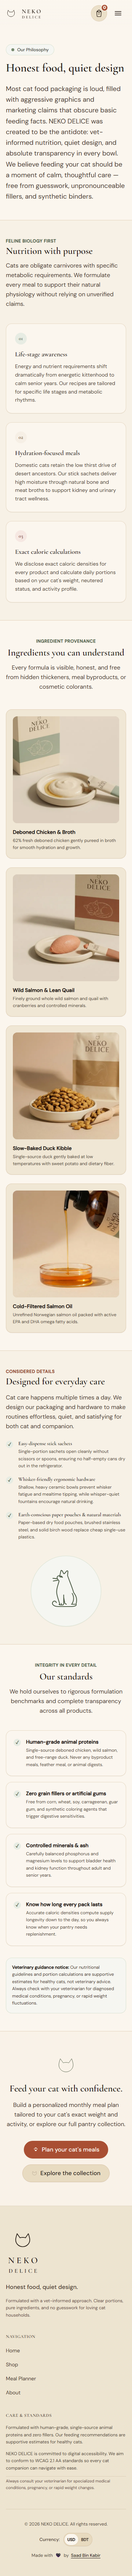
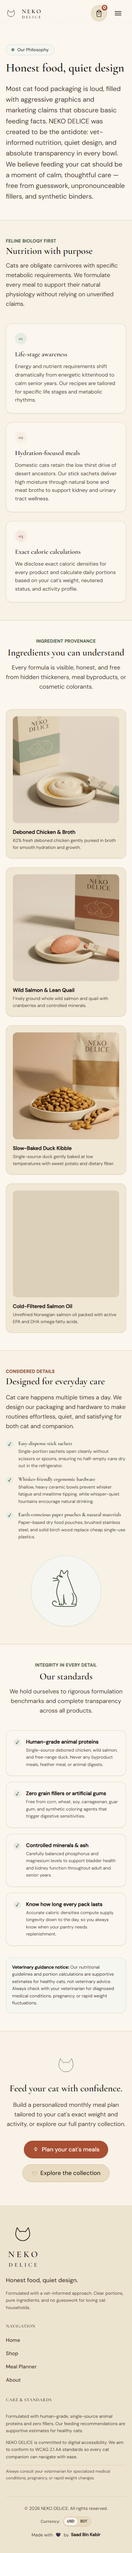
feat: add expanding underline hover effect and refine footer placement and currency toggle size

Changed region(s): [[0.0306, 0.0312, 0.9472, 0.7793], [0.0306, 0.8105, 0.9167, 0.9975], [0.8556, 0.1559, 0.8861, 0.187]]

diff --git a/src/components/layout/Footer.tsx b/src/components/layout/Footer.tsx
@@ -13,11 +13,11 @@ export function Footer() {
   ]
 
   return (
-    <footer className="bg-oat-100/60 border-t border-oat-200/80 mt-auto pt-16 pb-12 text-espresso-800">
+    <footer className="bg-oat-100/60 border-t border-oat-200/80 mt-auto pt-12 sm:pt-16 pb-10 sm:pb-12 text-espresso-800">
       <div className="max-w-[1280px] mx-auto px-4 sm:px-6 lg:px-8">
-        <div className="grid grid-cols-1 md:grid-cols-12 gap-10 lg:gap-12 pb-12 border-b border-oat-300/60">
+        <div className="grid grid-cols-1 md:grid-cols-12 gap-8 md:gap-8 lg:gap-12 pb-10 sm:pb-12 border-b border-oat-300/60">
           {/* Brand Identity & Line */}
-          <div className="md:col-span-5 flex flex-col items-start gap-4">
+          <div className="md:col-span-5 lg:col-span-5 flex flex-col items-start gap-3.5">
             <Logo variant="stacked" />
             <p className="text-base text-espresso-800 font-medium mt-1">
               Honest food, quiet design.
@@ -28,16 +28,16 @@ export function Footer() {
           </div>
 
           {/* Navigation Links */}
-          <div className="md:col-span-3">
+          <div className="md:col-span-3 lg:col-span-3">
             <h2 className="text-xs font-bold uppercase tracking-wider text-espresso-800 mb-4">
               Navigation
             </h2>
-            <nav aria-label="Footer Navigation" className="flex flex-col gap-2.5">
+            <nav aria-label="Footer Navigation" className="flex flex-col gap-2">
               {footerLinks.map((link) => (
                 <Link
                   key={link.to}
                   to={link.to}
-                  className="text-sm text-espresso-800 hover:text-terracotta-600 transition-colors inline-block py-1"
+                  className="footer-hover-link py-1 text-sm font-medium text-espresso-800 hover:text-terracotta-600 focus:outline-none focus-visible:ring-2 focus-visible:ring-terracotta-500 rounded-xs"
                 >
                   {link.label}
                 </Link>
@@ -46,8 +46,8 @@ export function Footer() {
           </div>
 
           {/* Care & Digital Accessibility Statement */}
-          <div className="md:col-span-4 flex flex-col gap-3 text-xs text-espresso-800 leading-relaxed">
-            <h2 className="text-xs font-bold uppercase tracking-wider text-espresso-800 mb-1">
+          <div className="md:col-span-4 lg:col-span-4 flex flex-col gap-3 text-xs text-espresso-800 leading-relaxed">
+            <h2 className="text-xs font-bold uppercase tracking-wider text-espresso-800 mb-4">
               Care &amp; Standards
             </h2>
             <p className="text-espresso-700">
@@ -56,23 +56,27 @@ export function Footer() {
             <p className="text-espresso-700">
               NEKO DELICE is committed to digital accessibility. We aim to conform to WCAG 2.1 AA standards so every cat companion can navigate with ease.
             </p>
-            <p className="text-[11px] text-espresso-600 pt-1 border-t border-oat-300/60">
+            <p className="text-[11px] text-espresso-600 pt-2 border-t border-oat-300/60">
               Always consult your veterinarian for specialized medical conditions, pregnancy, or rapid weight changes.
             </p>
           </div>
         </div>
 
         {/* Bottom Bar: Copyright, Currency Selector, and Creator Credit */}
-        <div className="pt-8 flex flex-col md:flex-row items-center justify-between gap-4 text-xs text-espresso-700">
-          <p>© {currentYear} NEKO DELICE. All rights reserved.</p>
+        <div className="pt-6 sm:pt-8 grid grid-cols-1 md:grid-cols-3 items-center gap-3.5 sm:gap-4 text-xs text-espresso-700">
+          <p className="text-center md:text-left">
+            © {currentYear} NEKO DELICE. All rights reserved.
+          </p>
 
-          {/* Global Store Currency Selector */}
-          <div className="flex items-center gap-2.5">
-            <span className="text-espresso-800 font-medium">Currency:</span>
-            <CurrencyToggle ariaLabel="Currency selection" size="sm" />
+          {/* Global Store Currency Selector - Compact Micro-Switch */}
+          <div className="flex items-center justify-center gap-2">
+            <span className="text-[11px] text-espresso-700 font-medium tracking-wide">
+              Currency:
+            </span>
+            <CurrencyToggle ariaLabel="Currency selection" size="xs" />
           </div>
 
-          <p className="text-espresso-700 flex items-center gap-1.5">
+          <p className="text-espresso-700 flex items-center justify-center md:justify-end gap-1.5">
             <span>Made with</span>
             <span
               aria-hidden="true"
@@ -86,7 +90,7 @@ export function Footer() {
               href="https://www.instagram.com/saaad.dng/"
               target="_blank"
               rel="noopener noreferrer"
-              className="font-medium text-espresso-950 underline underline-offset-3 decoration-sand-400 hover:text-terracotta-600 hover:decoration-terracotta-600 transition-colors focus:outline-none focus-visible:ring-2 focus-visible:ring-terracotta-500 rounded-xs"
+              className="footer-hover-link font-semibold text-espresso-950 hover:text-terracotta-600 pb-0.5 focus:outline-none focus-visible:ring-2 focus-visible:ring-terracotta-500 rounded-xs"
             >
               Saad Bin Kabir
             </a>

diff --git a/src/components/ui/CurrencyToggle.tsx b/src/components/ui/CurrencyToggle.tsx
@@ -3,7 +3,7 @@ import { useCurrency } from '@/store/currency'
 export interface CurrencyToggleProps {
   ariaLabel?: string
   className?: string
-  size?: 'sm' | 'md'
+  size?: 'xs' | 'sm' | 'md'
 }
 
 export function CurrencyToggle({
@@ -14,23 +14,26 @@ export function CurrencyToggle({
   const currency = useCurrency((s) => s.currency)
   const setCurrency = useCurrency((s) => s.setCurrency)
 
-  const isSmall = size === 'sm'
+  const buttonSizeClasses =
+    size === 'xs'
+      ? 'min-w-[28px] h-[21px] px-2 py-0 text-[10px] leading-none tracking-wide'
+      : size === 'sm'
+        ? 'min-w-[36px] min-h-[30px] px-2 py-0.5 text-[11px]'
+        : 'min-w-[42px] min-h-[34px] px-2.5 py-1 text-xs'
 
   return (
     <fieldset
       aria-label={ariaLabel}
-      className={`inline-flex items-center rounded-full bg-oat-100/90 p-0.5 border border-sand-300/80 m-0 shadow-2xs ${className}`}
+      className={`inline-flex items-center rounded-full bg-oat-100/90 ${
+        size === 'xs' ? 'p-[2px]' : 'p-0.5'
+      } border border-sand-300/80 m-0 shadow-2xs ${className}`}
     >
       <legend className="sr-only">{ariaLabel}</legend>
       <button
         type="button"
         onClick={() => setCurrency('USD')}
         aria-pressed={currency === 'USD'}
-        className={`${
-          isSmall
-            ? 'min-w-[36px] min-h-[30px] px-2 py-0.5 text-[11px]'
-            : 'min-w-[42px] min-h-[34px] px-2.5 py-1 text-xs'
-        } font-semibold rounded-full transition-all duration-150 active:scale-95 cursor-pointer focus:outline-none focus-visible:ring-2 focus-visible:ring-terracotta-600 ${
+        className={`${buttonSizeClasses} font-semibold rounded-full transition-all duration-150 active:scale-95 cursor-pointer focus:outline-none focus-visible:ring-2 focus-visible:ring-terracotta-600 ${
           currency === 'USD'
             ? 'bg-cream-50 text-espresso-950 shadow-xs'
             : 'text-espresso-700 hover:text-espresso-950'
@@ -42,11 +45,7 @@ export function CurrencyToggle({
         type="button"
         onClick={() => setCurrency('BDT')}
         aria-pressed={currency === 'BDT'}
-        className={`${
-          isSmall
-            ? 'min-w-[36px] min-h-[30px] px-2 py-0.5 text-[11px]'
-            : 'min-w-[42px] min-h-[34px] px-2.5 py-1 text-xs'
-        } font-semibold rounded-full transition-all duration-150 active:scale-95 cursor-pointer focus:outline-none focus-visible:ring-2 focus-visible:ring-terracotta-600 ${
+        className={`${buttonSizeClasses} font-semibold rounded-full transition-all duration-150 active:scale-95 cursor-pointer focus:outline-none focus-visible:ring-2 focus-visible:ring-terracotta-600 ${
           currency === 'BDT'
             ? 'bg-cream-50 text-espresso-950 shadow-xs'
             : 'text-espresso-700 hover:text-espresso-950'

diff --git a/src/index.css b/src/index.css
@@ -108,6 +108,31 @@ dialog::backdrop {
   background-color: rgba(43, 33, 26, 0.6);
 }
 
+/* Animated expanding bottom underline for footer clickable links & creator attribution */
+.footer-hover-link {
+  position: relative;
+  display: inline-flex;
+  align-self: flex-start;
+  transition: color 200ms ease;
+}
+
+.footer-hover-link::after {
+  content: '';
+  position: absolute;
+  bottom: 0;
+  left: 0;
+  width: 0%;
+  height: 1.5px;
+  background-color: var(--color-terracotta-600);
+  transition: width 280ms cubic-bezier(0.16, 1, 0.3, 1);
+}
+
+.footer-hover-link:hover::after,
+.footer-hover-link:focus-visible::after {
+  width: 100%;
+}
+
+
 @supports (backdrop-filter: blur(6px)) {
   dialog::backdrop {
     background-color: rgba(43, 33, 26, 0.42);

diff --git a/PLAN.md b/PLAN.md
@@ -83,7 +83,14 @@ Update the checkbox and "Notes" when a prompt finishes. Do not reorder phases.
   - Compacted product bar across desktop and mobile to ~142px with uniform DM Sans typography, fixed 2-line title height (34px), and aligned baselines for category, price, specs, and add button.
   - Re-architected editorial discovery tiles (Meal Plan & Honest Standards) to mirror ProductCard's 2-part anatomy (aspect-square visual header with monoline cat art + compact info bar), creating 100% geometric uniformity across all 12 grid cards.
 - 2026-10-26: Footer refinement completed. Replaced bottom-bar BDT rate disclaimer with creator attribution "Made with 🖤 by Saad Bin Kabir" linking to https://www.instagram.com/saaad.dng/ with accessible love description and hover micro-interaction; 83/83 Vitest tests, Playwright smoke tests, and static SSG build passing.
-- 2026-10-26: Feline Button & Cart Design Refinement: Redesigned the generic boutique handbag icon into a bespoke cat-eared shopping tote with arched handle and debossed cat paw insignia in Icon.tsx; created monoline PawPrint vector component in src/components/cat-art/PawPrint.tsx; upgraded Button.tsx with warm feline tactile styling (oat-100 secondary buttons instead of stark black fashion borders) and catIcon support; added playful paw micro-interactions to ProductCard Add buttons, PDP Add to bag CTA, Meal Planner wizard, and SmartBag checkout; 0 typecheck errors, 0 lint warnings, 83/83 Vitest tests, 89/89 Playwright tests, and SSG build passing.
+- 2026-10-26: Footer Hover Animation, Placement & Currency Toggle Refinement:
+  - Added smooth animated expanding underline hover effect (`.footer-hover-link` with `::after` expanding from 0 to 100% width on hover and focus-visible) on all footer navigation links (`Home`, `Shop`, `Meal Planner`, `About`) and the creator attribution link (`Saad Bin Kabir`).
+  - Perfected footer alignment and layout across desktop and mobile:
+    - Balanced desktop columns with harmonized typography baselines (`mb-4` on section headings, `md:col-span-5 lg:col-span-5` for Brand, `md:col-span-3 lg:col-span-3` for Navigation, `md:col-span-4 lg:col-span-4` for Care & Standards).
+    - Converted bottom bar to a true 3-column desktop grid (`md:grid md:grid-cols-3 md:items-center`): copyright text left-aligned, currency toggle dead center, and creator attribution right-aligned.
+    - Compacted mobile footer spacing from `pt-16 pb-12 gap-10` to `pt-12 sm:pt-16 pb-10 sm:pb-12 gap-8` with centered, cleanly spaced bottom utilities.
+  - Sized down footer currency toggle to a refined micro-switch (`size="xs"`, 21px height with 10px text and 2px container padding) for an unobtrusive aesthetic.
+  - 0 typecheck errors, 0 lint warnings, 83/83 Vitest tests, 89/89 Playwright E2E tests, and static SSG build passing.
 
 
 
